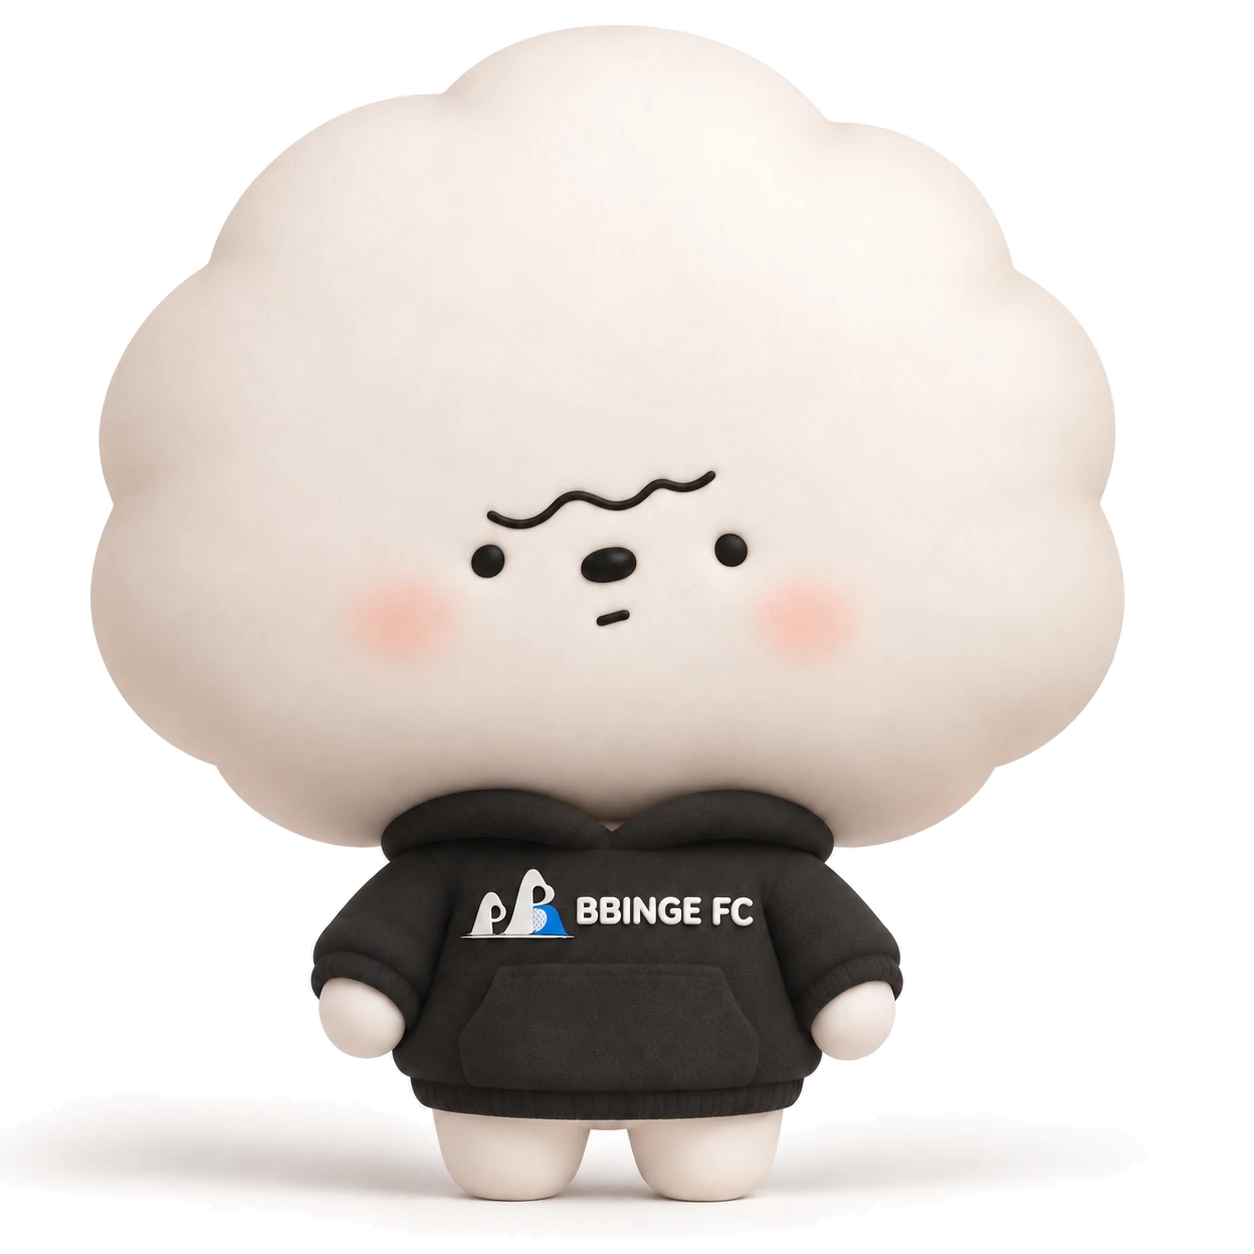
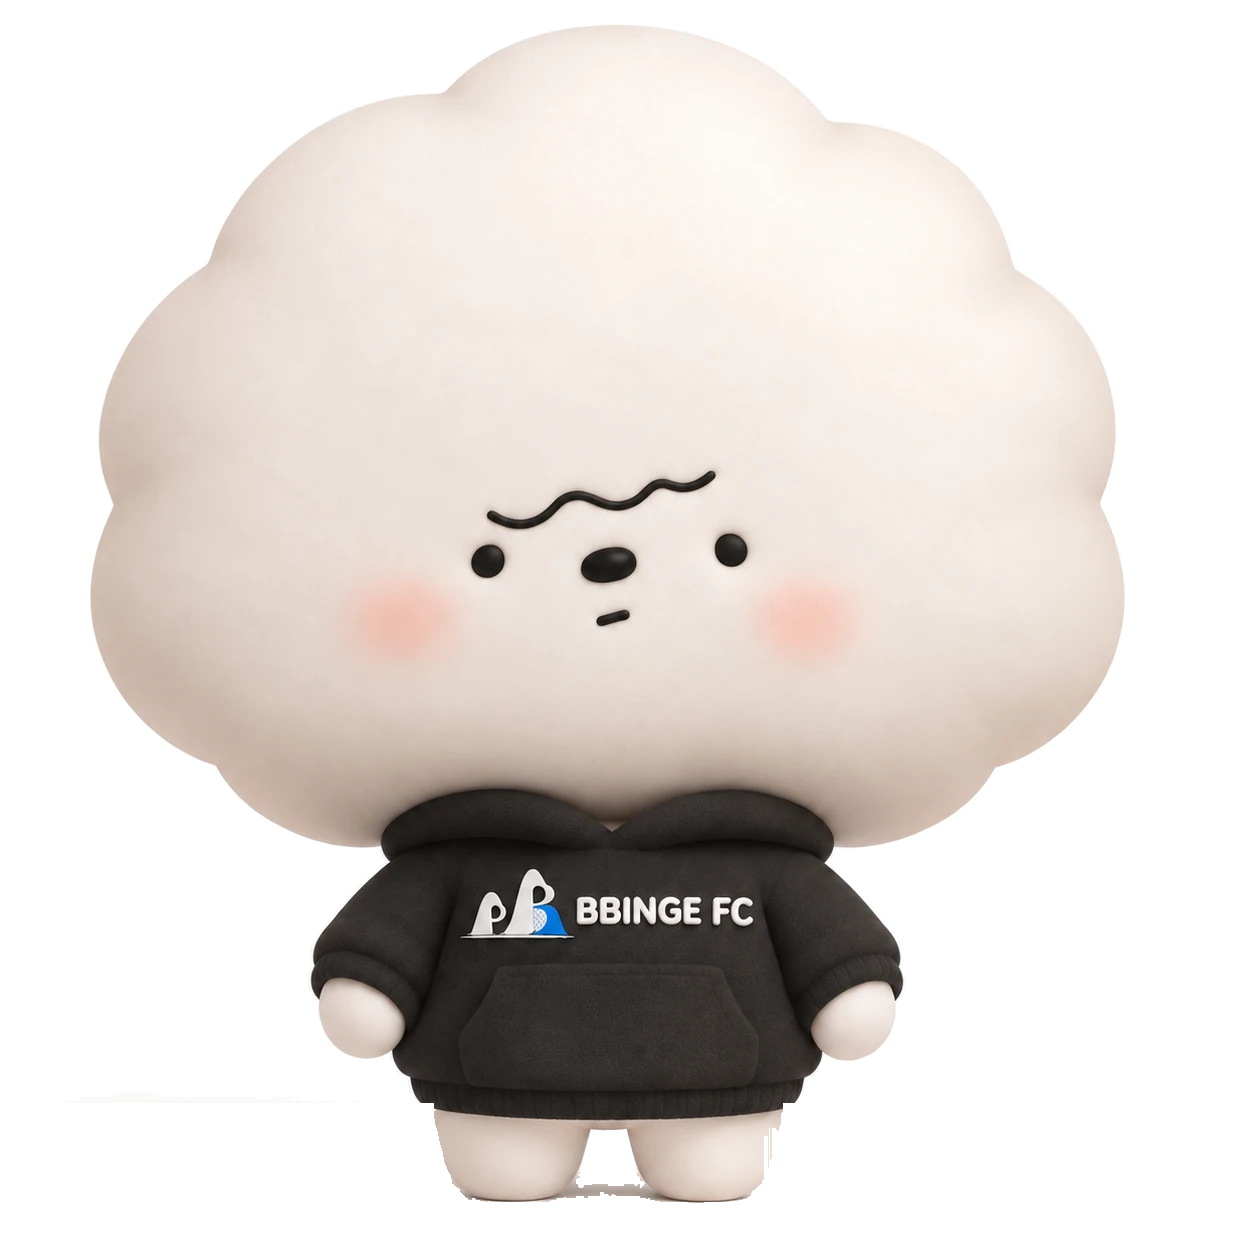
추가(캐릭터): 인스타 사진 칸에 가을 배경을 깐다
- 운영자가 만든 scene-autumn.webp 를 사진 칸 맨 뒤에 깐다
- 쌓는 순서는 배경 사진, 낙엽, 캐릭터다
- 정면 컷의 흰 바닥 그림자를 잘라내기 단계에서 지운다
- 계절이 바뀌면 scene-{계절}.webp 파일만 넣으면 된다

Changed region(s): [[0.0311, 0.9019, 0.3732, 0.9641], [0.5909, 0.9019, 0.7775, 0.9641], [0.4354, 0.9019, 0.5287, 0.9641]]

diff --git a/BBINGE_CHARACTER_HANDOFF.md b/BBINGE_CHARACTER_HANDOFF.md
@@ -179,3 +179,11 @@
 - 꽃잎 층은 카드 폭이 아니라 **화면 폭 전체**(`width:100vw`)를 쓴다. 카드 좌우 빈 곳에도 떨어진다.
 - 꽃잎 26장을 세 갈래로 나눴다. 곧게 떨어지는 것(흔들림이 크다), 오른쪽 위에서 왼쪽 아래로 가는 것, 왼쪽 위에서 오른쪽 아래로 가는 것. 낙하 거리·회전량·속도·크기·투명도도 장마다 다르다.
 - **인스타 사진 칸 안에도** 낙엽이 떨어진다. 사진은 정사각 흰 바탕이고 둘이 바닥에 나란히 서 있다. 합성 이미지(`together.webp`)를 붙이는 대신 투명 PNG 두 장을 세워 그 사이로 낙엽이 지나가게 했다.
+
+### 사진 칸 배경 (운영자 제공, 2026-09-23)
+
+운영자가 만든 가을 사진을 인스타 사진 칸 배경으로 깔았다. 파일은 `public/images/brand/character/scene-autumn.webp`(948x948)이며, 마크업은 `scene-${season}.webp`를 부르므로 **계절이 바뀌면 같은 이름 규칙으로 파일만 넣으면 된다**(`scene-winter.webp` 등). 파일이 없으면 그 계절에는 그림이 비므로 계절이 바뀌기 전에 넣는다.
+
+쌓는 순서는 배경 사진 → 낙엽 → 캐릭터다. 캐릭터 파일은 손대지 않고 뒤에만 깐다는 운영자 지시대로다.
+
+**바닥 그림자 제거:** 렌더에는 흰 바닥 그림자가 붙어 있어 사진 위에서는 흰 얼룩으로 보였다. `make-character-cutouts.mjs`가 정면 컷 두 장에 한해 아래 12% 구간에서 그림자를 지운다. 다리는 따뜻한 색(색기 20 이상)이고 그림자는 무채색(10 안팎)이라 그 차이로 가른다. 열마다 몸이 끝나는 줄 아래를 지우고, 남은 무채색 화소도 지운다. **CSS로 아래를 잘라내는 방법(`clip-path`)은 실패했다.** 그림자가 발바닥보다 위에서 옆으로 퍼져 있어 아래만 잘라서는 지워지지 않는다.

diff --git a/STATUS.md b/STATUS.md
@@ -4,9 +4,9 @@
 새 세션은 **이 파일을 제일 먼저 읽는다.** 여기 있는 숫자는 문서에 적어 둔 기억이 아니라 저장소를 직접 센 값이다.
 고정 규칙은 `AGENTS.md` §1의 핵심 문서를, 작업 경위는 `HANDOFF.md`를 본다.
 
-- 생성 시각: 2026. 9. 23. 20시 34분 47초 (KST)
-- 이 파일을 만든 시점의 커밋: `586787c` · 2026-09-23 20:09 · 추가(캐릭터): 단체 프로필 뒤에 계절 배경을 깐다
-- 작업 트리: 커밋 안 된 변경 2건
+- 생성 시각: 2026. 9. 23. 21시 7분 29초 (KST)
+- 이 파일을 만든 시점의 커밋: `34a19bd` · 2026-09-23 20:41 · 수정(캐릭터): 낙엽을 화면 좌우로 흩고 배경을 흰색으로 되돌린다
+- 작업 트리: 커밋 안 된 변경 6건
 - **배포 확인:** `git log --oneline -1`의 해시와 https://bbinge-fc.pages.dev/deploy.json 의 `commit`이 같으면 반영 완료다. 이 파일은 빌드 때 만들어지므로 그 뒤의 커밋 한 개만큼 뒤처져 있을 수 있다.
 
 ## 열린 항목
@@ -116,6 +116,7 @@
 ## 최근 커밋 12건
 
 ```
+2026-09-23  34a19bd  수정(캐릭터): 낙엽을 화면 좌우로 흩고 배경을 흰색으로 되돌린다
 2026-09-23  586787c  추가(캐릭터): 단체 프로필 뒤에 계절 배경을 깐다
 2026-09-23  c262edd  문서: 캐릭터 페이지 구조 설명을 단체 프로필로 맞춘다
 2026-09-23  e3dc319  수정(캐릭터): 얼굴 절을 인스타 모양 단체 프로필로 바꾼다
@@ -127,5 +128,4 @@
 2026-09-23  1f86588  수정(캐릭터): 자기소개서 사진을 로고 페이지처럼 따라 내려오게 한다
 2026-09-23  81c0c02  수정(캐릭터): 스크롤 모션을 스크립트 방식으로 바꾼다
 2026-09-23  ae9105b  수정(캐릭터): 스크롤 모션을 크게 키운다
-2026-09-23  f734918  수정(캐릭터): 사진 뒤 회색 판을 없애고 스크롤 모션을 넣는다
 ```
